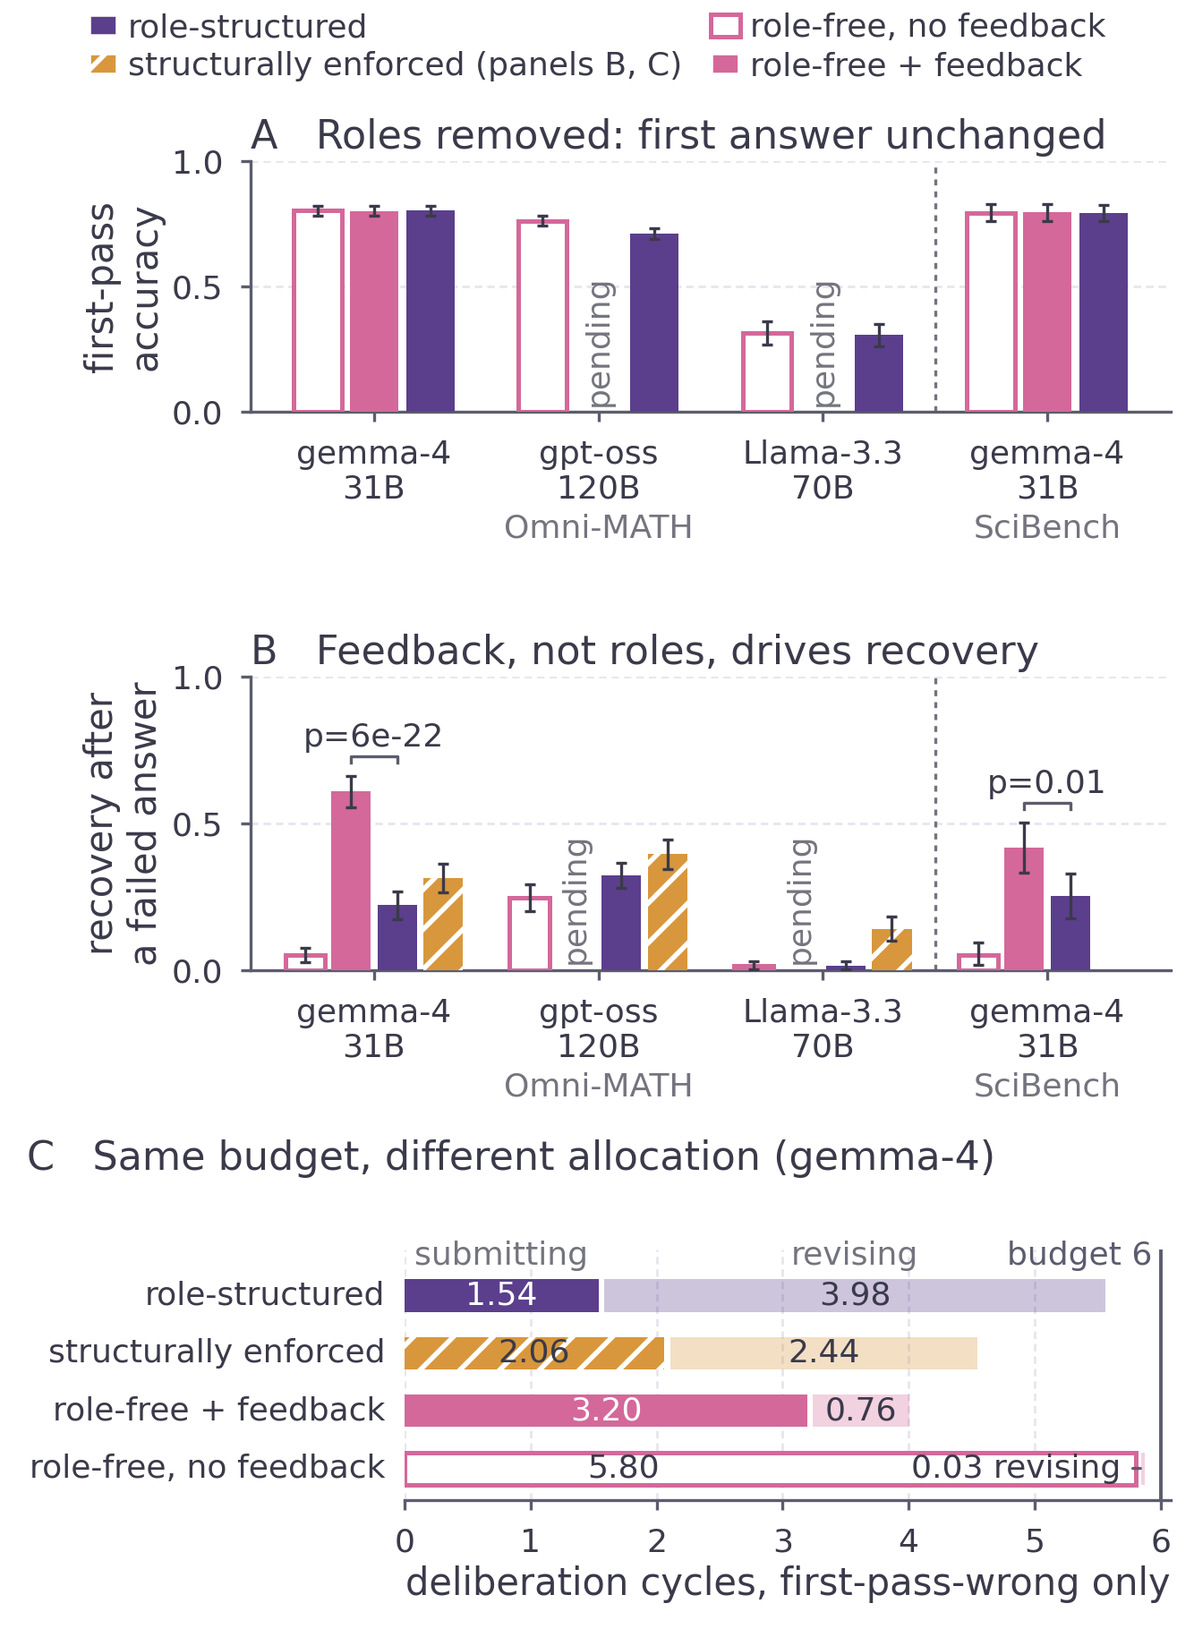
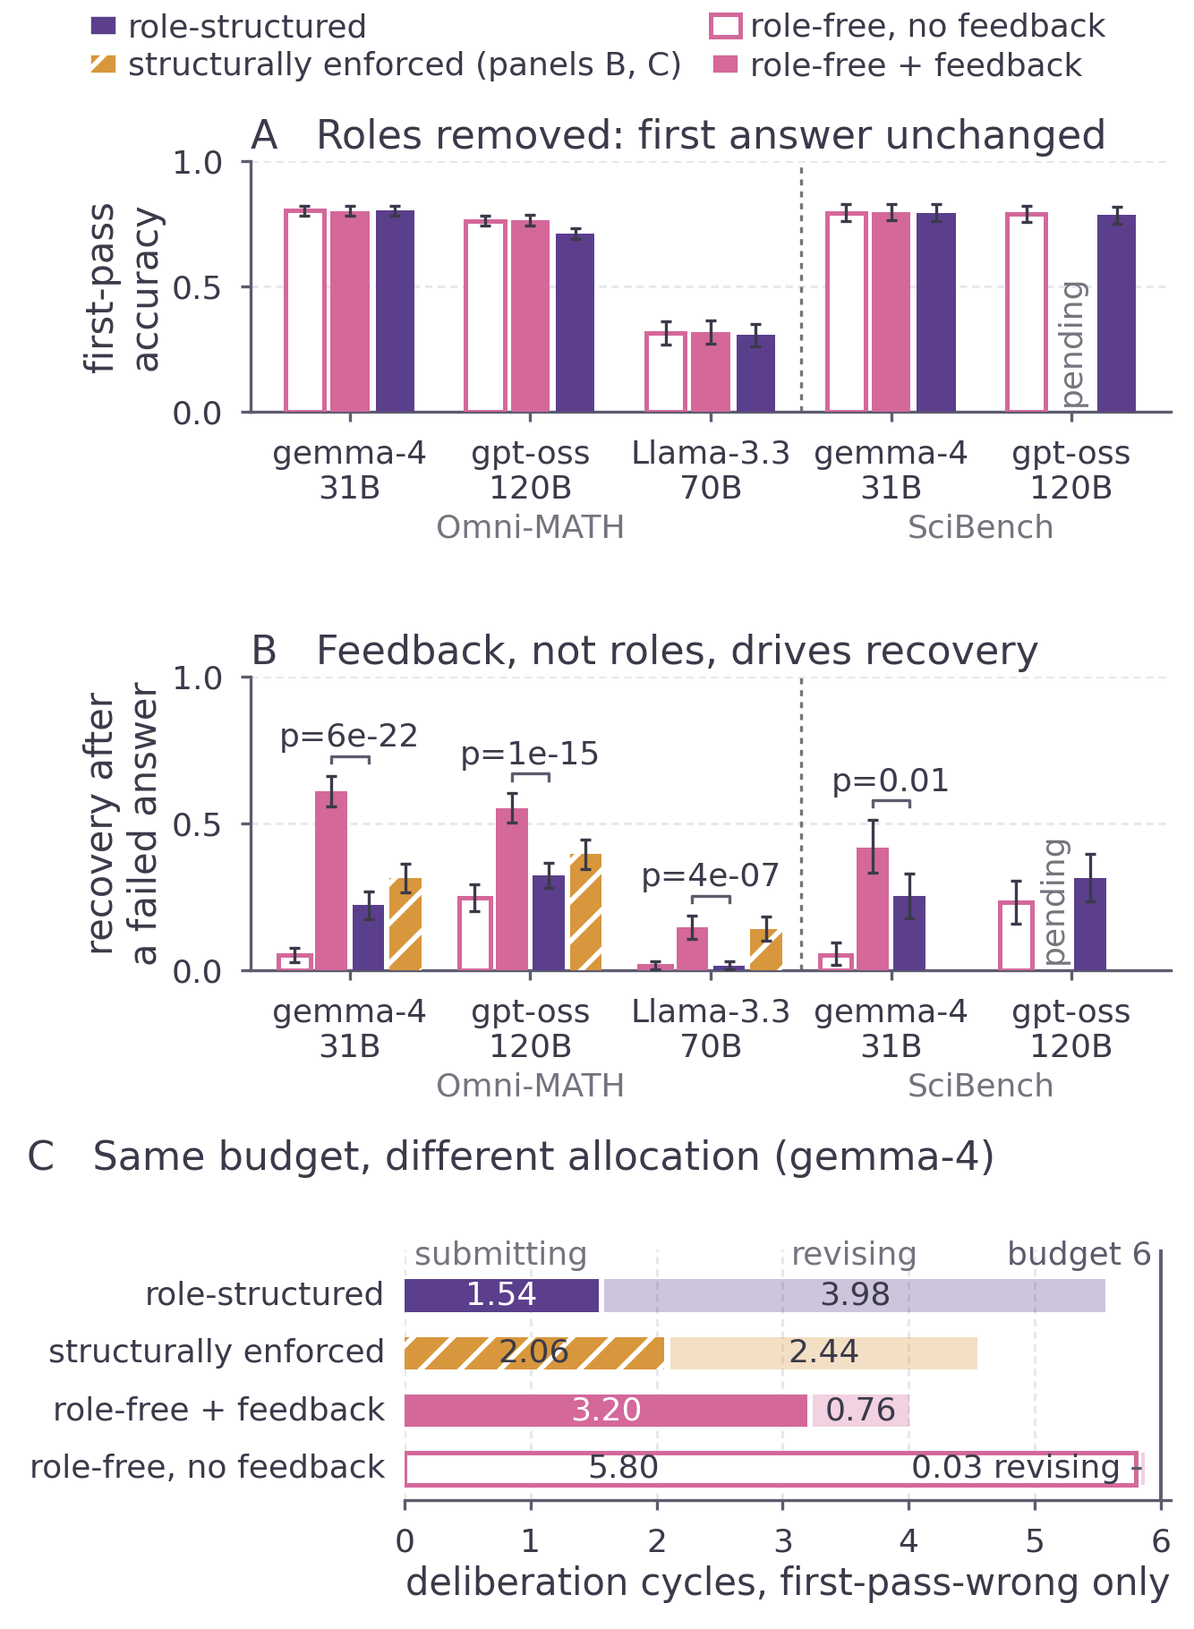
Add the gpt-oss and Llama-3.3 feedback-matched runs to the paper
- R3 scope, abstract, introduction and conclusion: the ordering holds in
  all three actors on Omni-MATH.
- Table 1: role-free-with-feedback collapse rows (mk_tables.py reads
  FIGDATA_BF.json, complete runs only).
- Fig 1: draws only complete runs; single-agent paragraph moved to the
  supplement.
- bf_numbers.py: per-cell RNG streams; skips the requeue quarantine files.
- MANIFEST_BF.json: Llama-3.3 (n=400) and gpt-oss (n=1600) Omni-MATH runs.

Changed region(s): [[0.2151, 0.1231, 0.9528, 0.3385], [0.2151, 0.4308, 0.9528, 0.6769]]

diff --git a/analysis/scripts/bf_numbers.py b/analysis/scripts/bf_numbers.py
@@ -42,6 +42,7 @@ import math
 import os
 import re
 import sys
+import zlib
 from math import comb
 
 import numpy as np
@@ -131,18 +132,27 @@ def mcnemar(b, c):
     return min(1.0, 2 * sum(comb(m, i) for i in range(min(b, c) + 1)) / 2 ** m) if m else 1.0
 
 
-def boot(x, n=20000):                # FINAL_TABLES.boot
+def rng_for(key):
+    """One RNG stream per cell or contrast, seeded from SEED and the key, so an
+    interval does not move when another cell (a run still in progress) is
+    added to or removed from the inputs."""
+    return np.random.default_rng([SEED, zlib.crc32(key.encode())])
+
+
+def boot(x, n=20000, rng=None):      # FINAL_TABLES.boot
+    rng = RNG if rng is None else rng
     x = np.asarray(x, float)
     if len(x) < 5: return (float("nan"), float("nan"))
     return tuple(float(v) for v in
-                 np.percentile([RNG.choice(x, len(x)).mean() for _ in range(n)], [2.5, 97.5]))
+                 np.percentile([rng.choice(x, len(x)).mean() for _ in range(n)], [2.5, 97.5]))
 
 
-def mean_ci(v, n=4000):              # FINAL_TABLES._mean_ci
+def mean_ci(v, n=4000, rng=None):    # FINAL_TABLES._mean_ci
+    rng = RNG if rng is None else rng
     v = np.asarray(v, float)
     if len(v) == 0: return (float("nan"),) * 3
     if len(v) < 5: return (float(v.mean()), float("nan"), float("nan"))
-    b = np.percentile([RNG.choice(v, len(v)).mean() for _ in range(n)], [2.5, 97.5])
+    b = np.percentile([rng.choice(v, len(v)).mean() for _ in range(n)], [2.5, 97.5])
     return float(v.mean()), float(b[0]), float(b[1])
 
 
@@ -229,7 +239,8 @@ def load_gold(parquet):
 # =============================================================================
 # Statistics over feature records (dict uid -> feature)
 # =============================================================================
-def cell_stats(C):
+def cell_stats(C, key=""):
+    rng = rng_for("cell|" + key)
     s = list(C.values())
     j = [f for f in s if f["judged"]]
     fpw = [f for f in s if f["judged"] and f["fp"] == 0]
@@ -237,9 +248,9 @@ def cell_stats(C):
     unj = [f for f in s if not f["judged"]]
     held = sum(f["fin"] for f in fpr)
     rec = sum(f["fin"] for f in fpw)
-    fpm, fplo, fphi = mean_ci([f["fp"] for f in j])
-    rcm, rclo, rchi = mean_ci([f["fin"] for f in fpw])
-    fnm, fnlo, fnhi = mean_ci([f["fin"] for f in s])
+    fpm, fplo, fphi = mean_ci([f["fp"] for f in j], rng=rng)
+    rcm, rclo, rchi = mean_ci([f["fin"] for f in fpw], rng=rng)
+    fnm, fnlo, fnhi = mean_ci([f["fin"] for f in s], rng=rng)
     if j:
         assert abs((1 - fpm) * len(j) - len(fpw)) < 1e-6, "first-pass identity violated"
     fc = [f["collapse"] for f in s if f["collapse"] is not None]
@@ -267,10 +278,10 @@ def cell_stats(C):
     return d
 
 
-def paired_final(X, Y):
+def paired_final(X, Y, key=""):
     cm = sorted(set(X) & set(Y))
     d = np.array([Y[u]["fin"] - X[u]["fin"] for u in cm], float)
-    lo, hi = boot(d)
+    lo, hi = boot(d, rng=rng_for("paired|" + key))
     b, c = int((d == -1).sum()), int((d == 1).sum())
     return dict(n=len(cm), delta=float(d.mean()), lo=lo, hi=hi, x_only=b, y_only=c, p=mcnemar(b, c))
 
@@ -418,6 +429,8 @@ def main():
     for p in sorted(glob.glob(os.path.join(a.bf_dir, "bf_*.jsonl")) +
                     glob.glob(os.path.join(a.bf_dir, "bridgeA_*.jsonl"))):
         name = os.path.basename(p)
+        if name.endswith(".infra_failed.jsonl"):
+            continue     # bf_requeue.py's quarantine of infrastructure failures, never an outcome
         is_bridge = name.startswith("bridgeA_")
         got = sha256(p)
         n = 0
@@ -470,7 +483,7 @@ def main():
                 C = F["omni"].get((act, arm))
                 key = "{}|{}".format(act, arm)
                 if not C or key not in ref["cells"]: continue
-                mine, theirs = cell_stats(C), ref["cells"][key]
+                mine, theirs = cell_stats(C, "omni|" + key), ref["cells"][key]
                 for fld in ("n", "n_fpw", "n_judged", "firstpass", "recovery", "final_prereg",
                             "cycles", "submissions", "revising", "neverrefuse", "frozen_ans"):
                     if fld in theirs:
@@ -483,7 +496,7 @@ def main():
             A, B = F["scibench"].get((act, "A")), F["scibench"].get((act, "B"))
             if not A or not B: continue
             pr = paired_recovery(A, B)
-            sa, sb = cell_stats(A), cell_stats(B)
+            sa, sb = cell_stats(A, "scibench|%s|A" % act), cell_stats(B, "scibench|%s|B" % act)
             assert pr["n"] == v["n_paired"] and pr["x_only"] == v["discordant_A_only"] \
                 and pr["y_only"] == v["discordant_B_only"], ("scibench paired", act)
             assert abs(sa["recovery"] - v["recovery_marginal_A"]) < 1e-12
@@ -547,7 +560,7 @@ def main():
             if "Bf" not in cs: continue
             for arm in ARMS:
                 if arm not in cs: continue
-                d = cell_stats(cs[arm])
+                d = cell_stats(cs[arm], "{}|{}|{}".format(dom, act, arm))
                 d.update(domain=dom, actor=act, arm=arm)
                 FIG["cells"]["{}|{}|{}".format(dom, act, arm)] = d
                 print("{:<9} {:<24}{:<4}{:>6}{:>22}{:>22}{:>30}{:>10}{:>9}".format(
@@ -569,7 +582,7 @@ def main():
             if "Bf" not in cs: continue
             for x, y in PAIRS:
                 if x not in cs or y not in cs: continue
-                r = paired_final(cs[x], cs[y])
+                r = paired_final(cs[x], cs[y], "{}|{}|{}-{}".format(dom, act, x, y))
                 FIG["paired_final"]["{}|{}|{}-{}".format(dom, act, x, y)] = r
                 print("  {:<9} {:<24}{:>3} vs {:<3} n={:<5} {}-only {:>4}  {}-only {:>4}  "
                       "delta {:+.4f} [{:+.4f},{:+.4f}]  p={:.3g}".format(
@@ -675,8 +688,9 @@ def main():
         if not X0: continue
         cm = sorted(set(Y) & set(X0))
         X, Yc = {u: X0[u] for u in cm}, {u: Y[u] for u in cm}
-        sx, sy = cell_stats(X), cell_stats(Yc)
-        pf = paired_final(X, Yc)
+        sx = cell_stats(X, "bridge|frozen|" + act)
+        sy = cell_stats(Yc, "bridge|today|" + act)
+        pf = paired_final(X, Yc, "bridge|" + act)
         j = [u for u in cm if X[u]["judged"] and Yc[u]["judged"]]
         b = sum(1 for u in j if X[u]["fp"] == 1 and Yc[u]["fp"] == 0)
         c = sum(1 for u in j if X[u]["fp"] == 0 and Yc[u]["fp"] == 1)

diff --git a/analysis/scripts/mk_tables.py b/analysis/scripts/mk_tables.py
@@ -287,8 +287,12 @@ def t_collapse(S, pv) -> str:
     # they push this one-column table ~33pt past the text block.
     body = []
     dagger = []   # (short-message fraction) for cells whose duplication is uninterpretable
+    # The role-free condition is reported with and without the evaluator's
+    # feedback (manuscript 4); this table's role-free rows are the frozen
+    # condition WITHOUT feedback.
+    LBL = {"A": ARM_LABEL["A"], "B": "role-free, without feedback"}
     for arm in ("A", "B"):
-        body.append(f"\\multicolumn{{4}}{{@{{}}l}}{{\\emph{{{ARM_LABEL[arm]}}}}} \\\\")
+        body.append(f"\\multicolumn{{4}}{{@{{}}l}}{{\\emph{{{LBL[arm]}}}}} \\\\")
         for a in ACTORS:
             coll = need(T1, (a, arm), "T1")[5]
             dup = need(T18, (a, arm), "T18")[1]
@@ -305,6 +309,20 @@ def t_collapse(S, pv) -> str:
                 dup_cell = dup_cell[:-1] + "^{\\dagger}$"   # inside the same math group
                 dagger.append(short)
             body.append(f"\\quad {ACTOR_LABEL[a]} & {bold(coll)} & {dup_cell} & {bold(aj)} \\\\")
+        body.append("\\addlinespace")
+
+    # Role-free WITH feedback: same prompts as the role-free rows, run after the
+    # freeze (bf_numbers.py -> FIGDATA_BF.json). Only functional collapse is
+    # reported for it: duplication and adjudication were not run on that
+    # condition. Only cells whose run is complete are printed.
+    _bfd = json.loads((ROOT / "analysis/out/FIGDATA_BF.json").read_text())
+    bf_rows = [(a, _bfd["cells"][f"omni|{a}|Bf"]) for a in ACTORS
+               if _bfd.get("status", {}).get(f"omni|{a}") == "complete"
+               and f"omni|{a}|Bf" in _bfd["cells"]]
+    if bf_rows:
+        body.append("\\multicolumn{4}{@{}l}{\\emph{role-free, with feedback}} \\\\")
+        for a, c in bf_rows:
+            body.append(f"\\quad {ACTOR_LABEL[a]} & $\\mathbf{{{c['collapse']:.3f}}}$ & -- & -- \\\\")
         body.append("\\addlinespace")
 
     # Enforced conditions: collapse is n/a (their schema has no answer field).
@@ -333,7 +351,8 @@ def t_collapse(S, pv) -> str:
                        f" (the logging defect, \\S\\ref{{subsec:logging}}).")
 
     pre = header("Table 1 (manuscript) -- functional collapse per actor", pv,
-                 [f"analysis/out/{CANON.name}  sections T1, T18, T20, T23"],
+                 [f"analysis/out/{CANON.name}  sections T1, T18, T20, T23",
+                  "analysis/out/FIGDATA_BF.json  (role-free with feedback: collapse only)"],
                  ["Byte duplication is a LOWER BOUND (precision 1.000, recall 0.262)",
                   "and never carries the collapse claim alone (APPROVED_CLAIMS A1).",
                   "The adjudication is outcome-blind but NOT condition-blind: do not",
@@ -347,7 +366,8 @@ Byte duplication has precision $1.000$ but recall $0.262$, so it never
 carries this result alone. The adjudication is outcome-blind but
 \\textbf{{not}} condition-blind and is a second opinion, not ground truth.
 Collapse is not applicable to the structurally enforced conditions, whose
-schema forbids an answer field.}}
+schema forbids an answer field. The role-free condition with feedback uses
+the role-free prompts unchanged; only its collapse was measured.}}
 \\label{{tab:collapse}}
 \\small
 \\begin{{tabular}}{{@{{}}lccc@{{}}}}
@@ -360,7 +380,7 @@ actor & collapse & duplication & no division \\\\
 \\end{{tabular}}
 
 \\vspace{{2pt}}
-\\footnotesize\\emph{{Sensitivity.}} The role-free rate is stable across three
+\\footnotesize\\emph{{Sensitivity.}} The role-free rate without feedback is stable across three
 answer-marker definitions (${b_lo:.3f}$--${b_hi:.3f}$, every actor);
 \\textbf{{the role-structured rate is not}} (${a_lo:.3f}$--${a_hi:.3f}$), so
 read that column as ``low,'' not a point estimate. The ordering holds in all

diff --git a/paper/sections/results.tex b/paper/sections/results.tex
@@ -126,7 +126,9 @@ history, so from inside the transcript nothing has happened, and sending
 the answer back is a reasonable move.
 
 \paragraph{The same team, told.} Given the evaluator's verdict and hint,
-the identical role-free prompts produce a different team. The answer moves
+the identical role-free prompts produce a different team, though not a
+differentiated one: all three agents still assert their own answer on
+$0.974$ of first passes (Table~\ref{tab:collapse}). The answer moves
 (one distinct answer in $6.6\%$ of failed trajectories), the Reviewer
 sometimes declines (never, in $57.4\%$), and recovery rises from
 $16/316=0.051$ to $193/317=0.609$. On the $265$ problems both role-free
@@ -179,20 +181,21 @@ feedback, the role-free team still recovers $0.438$ against $0.206$. Across
 the conditions that receive feedback, recovery rises with submissions ---
 $0.222$ at $1.54$, $0.314$ at $2.06$ under enforcement, $0.609$ at $3.20$.
 
-\paragraph{Scope across actors.} \textbf{[TBD after the gpt-oss and
-Llama-3.3 runs.]} Without feedback, the role-structured advantage is
-clean for gemma-4, directional for gpt-oss ($0.324$ against $0.247$, paired
-$p=0.208$) and absent for Llama-3.3 ($0.014$ against $0.015$).
-
-\paragraph{Is the role-free team just a single agent?}
-\label{subsec:notsingle}
-A budget-matched single-agent comparator from a previously released corpus
-cuts both ways: a role-free gpt-oss team beats its own single agent
-($+0.0294$) while gemma-4's role-structured team and its role-free team
-without feedback are worse than theirs ($-0.0225$, $-0.0563$), so neither ``multi-agent systems
-are just single agents'' nor ``more agents help'' survives. Its two actor
-arms were produced in separate runs, so each direction is a sound guard and
-the gap between actors is not (supplement).
+\paragraph{Scope across actors.} Without feedback, the role-structured
+advantage is clean for gemma-4, directional for gpt-oss ($0.324$ against
+$0.247$, paired $p=0.208$) and absent for Llama-3.3 ($0.014$ against
+$0.015$). With feedback, both repeat gemma-4's ordering, and in both the
+feedback leaves first-pass accuracy where it was ($0.765$ and $0.317$,
+against $0.762$ and $0.315$ without it). gpt-oss recovers $0.552$ against
+$0.324$ with roles (on the $319$ problems both teams first answer wrongly,
+$101$ are recovered only without roles and $17$ only with them,
+$p=1\times10^{-15}$) and reaches $0.894$ final accuracy against $0.803$
+($170$ against $24$ problems, $p=3\times10^{-28}$). Llama-3.3 recovers
+$0.147$ against $0.014$ ($26$ against $1$ of $250$, $p=4\times10^{-7}$) and
+reaches $0.415$ against $0.315$ ($50$ against $10$, $p=1.6\times10^{-7}$);
+its role-structured team reaches a second verdict in only $10$ of $276$
+failed trajectories, and there enforcement recovers about as much as the
+role-free team with feedback ($0.139$, paired $p=0.17$).
 
 \subsection{R4. The same ordering in a second domain}
 \label{subsec:xdomain}

diff --git a/paper/tables/main_role_collapse.tex b/paper/tables/main_role_collapse.tex
@@ -4,6 +4,7 @@
 % GENERATED FILE -- do not edit by hand. Any edit is overwritten.
 % generating script : analysis/scripts/mk_tables.py
 % canonical input   : analysis/out/FINAL_TABLES_OUTPUT.txt  sections T1, T18, T20, T23
+%                    analysis/out/FIGDATA_BF.json  (role-free with feedback: collapse only)
 % frozen data       : experiments/results/FROZEN/, frozen_at 2026-09-30T10:09:30.201557
 %                     11600 trajectories
 %                     sha256 fa22a446d5314bb67b1c6a6444b511eeeae3eb8770419a36f182617eeccbf3b5  actor3.jsonl
@@ -32,7 +33,8 @@ Byte duplication has precision $1.000$ but recall $0.262$, so it never
 carries this result alone. The adjudication is outcome-blind but
 \textbf{not} condition-blind and is a second opinion, not ground truth.
 Collapse is not applicable to the structurally enforced conditions, whose
-schema forbids an answer field.}
+schema forbids an answer field. The role-free condition with feedback uses
+the role-free prompts unchanged; only its collapse was measured.}
 \label{tab:collapse}
 \small
 \begin{tabular}{@{}lccc@{}}
@@ -45,10 +47,15 @@ actor & collapse & duplication & no division \\
 \quad gpt-oss-120b & $0.120$ & $0.000$ & $0.000$ \\
 \quad Llama-3.3-70B & $0.000$ & $0.000$ & $0.000$ \\
 \addlinespace
-\multicolumn{4}{@{}l}{\emph{role-free}} \\
+\multicolumn{4}{@{}l}{\emph{role-free, without feedback}} \\
 \quad gemma-4-31B & $\mathbf{0.976}$ & $0.000$ & $\mathbf{0.857}$ \\
 \quad gpt-oss-120b & $\mathbf{0.846}$ & $0.680^{\dagger}$ & $\mathbf{1.000}$ \\
 \quad Llama-3.3-70B & $\mathbf{0.872}$ & $0.008$ & $\mathbf{1.000}$ \\
+\addlinespace
+\multicolumn{4}{@{}l}{\emph{role-free, with feedback}} \\
+\quad gemma-4-31B & $\mathbf{0.974}$ & -- & -- \\
+\quad gpt-oss-120b & $\mathbf{0.883}$ & -- & -- \\
+\quad Llama-3.3-70B & $\mathbf{0.900}$ & -- & -- \\
 \addlinespace
 \multicolumn{4}{@{}l}{\emph{structurally enforced}} \\
 \quad all actors & n/a & $\leq 0.003$ & $0.067$--$0.286$ \\
@@ -56,7 +63,7 @@ actor & collapse & duplication & no division \\
 \end{tabular}
 
 \vspace{2pt}
-\footnotesize\emph{Sensitivity.} The role-free rate is stable across three
+\footnotesize\emph{Sensitivity.} The role-free rate without feedback is stable across three
 answer-marker definitions ($0.846$--$0.999$, every actor);
 \textbf{the role-structured rate is not} ($0.000$--$0.892$), so
 read that column as ``low,'' not a point estimate. The ordering holds in all

diff --git a/paper/main.tex b/paper/main.tex
@@ -115,8 +115,9 @@ role-free team recovers $0.609$ and reaches $0.921$ final accuracy, above
 the role-structured team's $0.846$. On problems both teams first answer
 wrongly, $89$ are recovered only without roles and $4$ only with them
 (exact McNemar $p=6\times10^{-22}$), and the ordering returns on $574$
-college-science problems ($0.419$ vs.\ $0.254$). \textbf{[TBD: gpt-oss /
-Llama-3.3.]} Roles still shape what happens after feedback, as a budget
+college-science problems ($0.419$ vs.\ $0.254$). The same ordering holds in
+the other two actors (gpt-oss: $0.552$ vs.\ $0.324$; Llama-3.3: $0.147$
+vs.\ $0.014$). Roles still shape what happens after feedback, as a budget
 allocation rather than a capability: the role-structured Reviewer must
 decline after a failure, so that team revises internally and resubmits
 $1.54$ times per failed trajectory against $3.20$. Each of its

diff --git a/paper/sections/conclusion.tex b/paper/sections/conclusion.tex
@@ -7,8 +7,9 @@ either: that comes from the feedback reaching the team. Deleting the role
 instructions destroyed the division of labor in all three actors while
 first-pass accuracy held. A role-free team whose prompts carried no
 feedback resubmitted the answer the evaluator had rejected; the same team,
-given the feedback, recovered more than the role-structured one in two
-domains (paired $p=6\times10^{-22}$ on Omni-MATH). What roles changed was
+given the feedback, recovered more than the role-structured one in all three
+actors and in a second domain (paired $p=6\times10^{-22}$ for gemma-4 on
+Omni-MATH). What roles changed was
 how the budget was spent. \textbf{Evaluating agent organization means
 auditing what each agent is told, not only how many calls it gets --- a
 role can look load-bearing simply by being the only place the feedback

diff --git a/paper/sections/experiments.tex b/paper/sections/experiments.tex
@@ -20,8 +20,8 @@ Llama-3.3; the context-restored control covers only the first two
 at $n=400$ each. Every trajectory carries the same budget record and the
 snapshot contains exactly one distinct budget. The evaluator is
 gpt-oss-120b in every cell, itself one of the actors under study
-(\S\ref{sec:limitations}). The single-agent comparator of
-\S\ref{subsec:notsingle} is \emph{not} part of this campaign or its
+(\S\ref{sec:limitations}). The single-agent comparator
+(\S\ref{sec:method}) is \emph{not} part of this campaign or its
 snapshot: it is a previously released trace corpus of the same benchmark
 joined by problem identifier, and its two actor arms were produced
 in separate runs. Power was estimated by simulation from

diff --git a/paper/sections/intro.tex b/paper/sections/intro.tex
@@ -57,7 +57,7 @@ role-structured one. On the $236$ problems both first answer wrongly it
 recovers $89$ the role-structured team misses, against $4$ the other way
 (exact McNemar $p=6\times10^{-22}$), and its final accuracy is $0.921$
 against $0.846$. The ordering returns on $574$ free-response
-college-science problems \textbf{[TBD: and in the other two actors]}.
+college-science problems and in both other actors.
 Roles still change what happens after feedback, as an allocation of the
 six-cycle budget: the role-structured Reviewer may not approve in the
 cycle a FAIL arrives, so that team revises internally and submits $1.54$

diff --git a/paper/sections/related.tex b/paper/sections/related.tex
@@ -36,8 +36,7 @@ an interval excluding zero. Zhang et al.~\cite{zhang2026rethinking} argue
 gains of multi-agent efficiency methods often arise where one agent
 suffices ---
 an objection aimed at our role-free condition, which is why
-\S\ref{subsec:notsingle} runs that control and reports that it cuts
-\emph{both} ways; Chen et al.~\cite{chen2026agentslimming} prune redundant
+we run that control; it cuts \emph{both} ways (supplement); Chen et al.~\cite{chen2026agentslimming} prune redundant
 agents on the same premise.
 
 \paragraph{Failure to revise, and answer lock-in.} That models repeat

diff --git a/paper/sections/method.tex b/paper/sections/method.tex
@@ -60,7 +60,8 @@ dissolving the constraint that defines the condition.
 on the same problems, from a previously released corpus rather than this
 campaign (\S\ref{sec:experiments}). Without it, ``collapse costs nothing''
 cannot be told from ``the system was one agent all
-along''~\cite{zhang2026rethinking}.
+along''~\cite{zhang2026rethinking}. It cuts both ways and is reported in the
+supplement.
 
 \subsection{Instrumentation and pre-registered analyses}
 \label{subsec:prereg}

diff --git a/analysis/scripts/mk_fig1_bf.py b/analysis/scripts/mk_fig1_bf.py
@@ -64,6 +64,8 @@ def cell(dom, actor, arm):
     from FIGDATA_BF.json. None if the cell has not been run."""
     if dom == "omni" and arm in ("A", "B", "C"):
         return D["cells"].get(f"{actor}|{arm}")
+    if arm == "Bf" and DB.get("status", {}).get(f"{dom}|{actor}") != "complete":
+        return None          # a run still in progress is drawn as pending, never as a bar
     return DB["cells"].get(f"{dom}|{actor}|{arm}")
 
 

diff --git a/paper/TERMINOLOGY.md b/paper/TERMINOLOGY.md
@@ -10,7 +10,8 @@ reproducibility. They must not appear in prose a reviewer reads.
 | internal code | manuscript wording (default in **bold**) |
 |---|---|
 | A | **role-structured** · "soft-role organization" where contrast with C is needed |
-| B | **role-free** · "roles removed" |
+| B | **role-free without feedback** · "role-free" where only first-pass behaviour is at issue. Its template has no slot for the evaluator's verdict or hint. |
+| Bf | **role-free with feedback** · the same role-free prompt plus the evaluator's verdict and hint (post hoc condition, run after the freeze). Figures: "role-free + feedback"; the B condition is drawn hollow as "role-free, no feedback". |
 | C | **structurally enforced** · "interface-enforced organization" |
 | C′ | **context-restored enforcement control** — mention only if it answers a reviewer-relevant alternative explanation |
 
